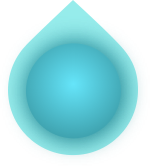
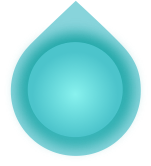
add

diff --git a/app/styles/pages/dsj.scss b/app/styles/pages/dsj.scss
@@ -34,38 +34,44 @@
     }
 
     &-divider{
-        height: 43rpx;
+        height: 27rpx;
         width: 100%;
         top: 50%;
-        margin-top: -21rpx;
+        margin-top: -11rpx;
         position: absolute;
-        background-image:
-            linear-gradient(to right, rgba(198, 194, 190, 0), rgba(200, 196, 195, 0.82), rgba(186, 186, 185, 0.94), rgba(187, 182, 179, 1), rgba(162, 158, 154, 0));
-        &::after{
-            content: "";
-            position: absolute;
-            top: 22rpx;
-            height: 0;
-            width: 100%;
-            border-bottom: 1px dashed rgba($color: #ffffff, $alpha: 0.7);
-        }
+        background-image: url(/images/dsj/horizontal_line.png);
+        background-repeat: no-repeat;
+        background-size: cover;
+        // background-image:
+        //     linear-gradient(to right, rgba(198, 194, 190, 0), rgba(200, 196, 195, 0.82), rgba(186, 186, 185, 0.94), rgba(187, 182, 179, 1), rgba(162, 158, 154, 0));
+        // &::after{
+        //     content: "";
+        //     position: absolute;
+        //     top: 22rpx;
+        //     height: 0;
+        //     width: 100%;
+        //     border-bottom: 1px dashed rgba($color: #ffffff, $alpha: 0.7);
+        // }
         @media (max-width: $mobile-breakpoint) {
             width: 30mrpx;
             height: 100%;
             top: 0;
             margin: 0;
             left: 180mrpx;
-            background-image: linear-gradient(to bottom, rgba(198, 194, 190, 0), rgba(200, 196, 195, 0.82), rgba(186, 186, 185, 0.94), rgba(187, 182, 179, 1), rgba(162, 158, 154, 0));
-            &::after {
-                content: "";
-                position: absolute;
-                margin: 110mrpx 0;
-                top: 0;
-                left: 14mrpx;
-                height: 100%;
-                width: 2mrpx;
-                border-right: 1px dashed rgba($color: #ffffff, $alpha: 0.7);
-            }
+            background-image: url(/images/dsj/vertical_line.png);
+            background-repeat: no-repeat;
+            background-size: cover;
+            // background-image: linear-gradient(to bottom, rgba(198, 194, 190, 0), rgba(200, 196, 195, 0.82), rgba(186, 186, 185, 0.94), rgba(187, 182, 179, 1), rgba(162, 158, 154, 0));
+            // &::after {
+            //     content: "";
+            //     position: absolute;
+            //     margin: 110mrpx 0;
+            //     top: 0;
+            //     left: 14mrpx;
+            //     height: 100%;
+            //     width: 2mrpx;
+            //     border-right: 1px dashed rgba($color: #ffffff, $alpha: 0.7);
+            // }
         }
     }
 
@@ -107,6 +113,15 @@
                 transform: rotateZ(70deg);
             }
         }
+
+        .scale &-waterdrop {
+            transform: rotate(90deg) !important;
+
+            // @media (max-width: $mobile-breakpoint) {
+            //     transform: rotateZ(70deg);
+            // }
+        }
+
         &-bottom{
             padding-bottom: 0;
             padding-top: $item-padding;
@@ -181,6 +196,7 @@
             justify-content: center;
             align-items: flex-end;
             padding-bottom: 28rpx;
+            transition: .5s ease-in-out;
             // background: rgba(1, 200, 126, 0.75);
             // border-radius: 70% 0 60% 60%/60% 0 70% 60%;
             // transform: rotate(-45deg);

diff --git a/app/templates/parts/dsj.html b/app/templates/parts/dsj.html
@@ -17,7 +17,7 @@
                 东北财经大学始建于1952年10月。当时，东北人民政府根据教育部颁布的全国高等学校调整设置方案。
             </div>
         </div>
-        <div class="dsj-item-waterdrop" style="background-image: url(/images/dsj/purple.png);">
+        <div class="dsj-item-waterdrop" style="background-image: url(/images/dsj/cyan.png);">
             <div class="dsj-item-waterdrop-circle">1952</div>
         </div>
     </div>
@@ -54,7 +54,7 @@
                 东北财经大学始建于1952年10月。当时，东北人民政府根据教育部颁布的全国高等学校调整设置方案。
             </div>
         </div>
-        <div class="dsj-item-waterdrop" style="background-image: url(/images/dsj/cyan.png);">
+        <div class="dsj-item-waterdrop" style="background-image: url(/images/dsj/red.png);">
             <div class="dsj-item-waterdrop-circle">1952</div>
         </div>
     </div>
@@ -78,7 +78,7 @@
                 东北财经大学始建于1952年10月。当时，东北人民政府根据教育部颁布的全国高等学校调整设置方案。
             </div>
         </div>
-        <div class="dsj-item-waterdrop" style="background-image: url(/images/dsj/purple.png);">
+        <div class="dsj-item-waterdrop" style="background-image: url(/images/dsj/cyan.png);">
             <div class="dsj-item-waterdrop-circle">1952</div>
         </div>
     </div>
